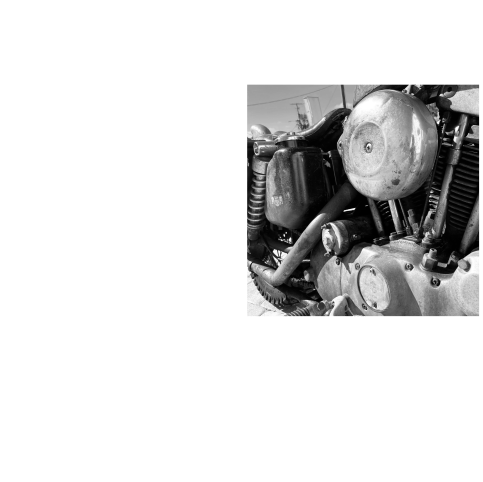
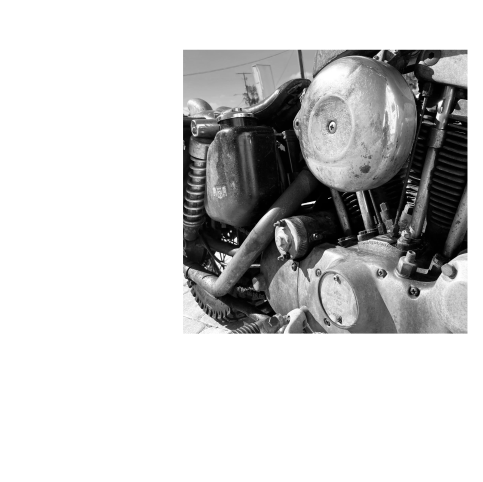
Enhance EraCard component in app/page.jsx by integrating background images directly into the style, improving visual presentation. Removed the previous image element and added a new overlay for better text readability. Updated binary image file for ironhead-sportster.webp to reflect recent changes.

diff --git a/app/page.jsx b/app/page.jsx
@@ -134,6 +134,9 @@ function EraCard({ era, index }) {
           style={{
             position: "relative",
             background: "#0c0c0c",
+            backgroundImage: `url(/images/eras/${era.slug}.webp)`,
+            backgroundSize: "cover",
+            backgroundPosition: "center",
             border: "1px solid #181818",
             overflow: "hidden",
             cursor: "pointer",
@@ -158,19 +161,6 @@ function EraCard({ era, index }) {
             }}
           />
 
-          {/* Background image */}
-          <img
-            src={`/images/eras/${era.slug}.webp`}
-            alt={era.display_name}
-            style={{
-              position: "absolute", inset: 0,
-              width: "100%", height: "100%",
-              objectFit: "cover",
-              mixBlendMode: "screen",
-              opacity: 0.42,
-            }}
-          />
-
           {/* Gradient overlay — keeps text readable */}
           <div style={{
             position: "absolute", inset: 0,
@@ -178,6 +168,15 @@ function EraCard({ era, index }) {
               ? `linear-gradient(270deg, rgba(8,8,8,0.9) 38%, rgba(8,8,8,0.16) 100%)`
               : `linear-gradient(90deg, rgba(8,8,8,0.9) 38%, rgba(8,8,8,0.16) 100%)`,
             zIndex: 1,
+          }} />
+
+          {/* Image wash */}
+          <div style={{
+            position: "absolute", inset: 0,
+            background: "rgba(255,255,255,0.08)",
+            mixBlendMode: "screen",
+            opacity: 0.55,
+            zIndex: 0,
           }} />
 
           {/* Text */}